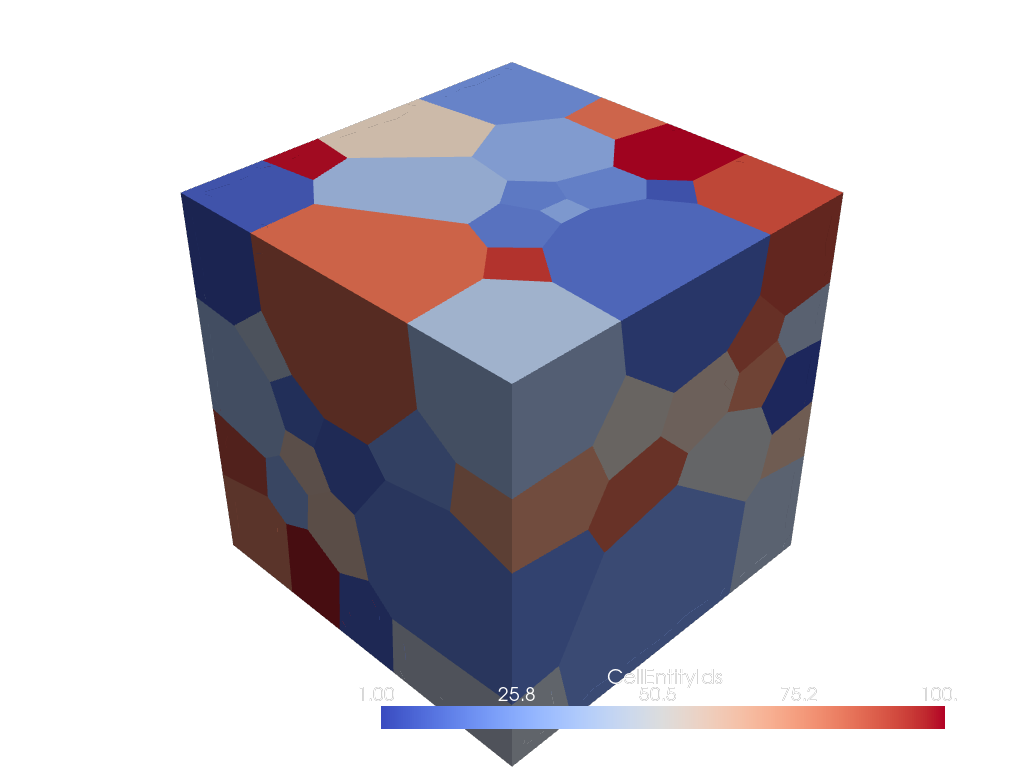
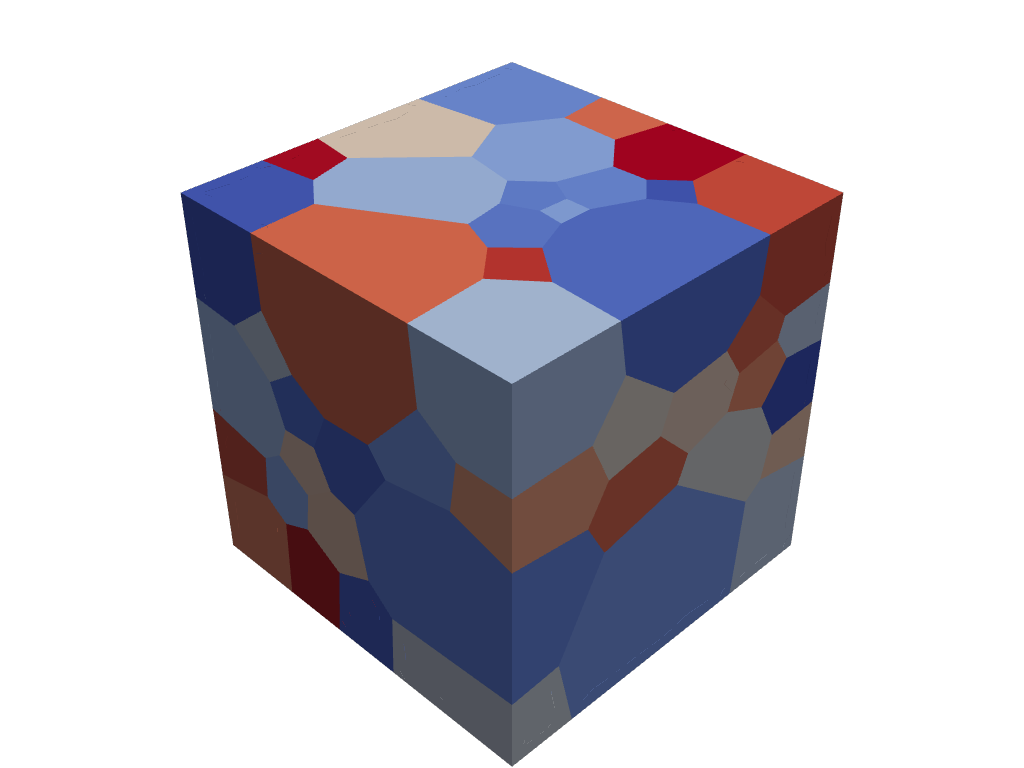
update doc screenshots

Changed region(s): [[0.375, 0.875, 0.9375, 0.9688]]

diff --git a/docs/_static/generates_images.py b/docs/_static/generates_images.py
@@ -2,17 +2,18 @@ import pyvista as pv
 import os.path
 
 
-def show_example(filename, screenshot=False, show_edges=False, screen_name=None):
+def show_example(filename, screenshot=False, color=None, show_edges=False, screen_name=None, cmap='coolwarm'):
     if not os.path.exists(filename):
         print(filename + " not found")
         return
 
     mesh = pv.read(filename)
     plotter = pv.Plotter(off_screen=screenshot)
-    plotter.add_mesh(mesh, show_edges=show_edges, cmap='coolwarm')
-    if show_edges:
+    plotter.add_mesh(mesh, show_edges=show_edges, color=color, cmap=cmap)
+    try:
         plotter.remove_scalar_bar()
-    # plotter.show_axes()
+    except:
+        pass
 
     if screenshot:
         if screen_name is None:
@@ -49,10 +50,6 @@ show_example(
     filename=example_path + "TPMS/tpms_sphere/tpms_sphere.stl",
     screenshot=True
 )
-# show_example(
-#     filename=example_path + "TPMS/tpms/tpms.stl",
-#     screenshot=False
-# )
 show_example(
     filename=example_path + "TPMS/gyroid/gyroid.stl",
     screenshot=True
@@ -81,8 +78,16 @@ show_example(
     filename=example_path + "Lattices/octetTruss/octettruss.vtk",
     screenshot=True,
     show_edges=True,
+    color='white',
+    cmap=None,
     screen_name="meshPeriodic.png"
 )
+
+
+# show_example(
+#     filename=example_path + "TPMS/tpms/tpms.stl",
+#     screenshot=False
+# )
 
 
 stl_files = [

diff --git a/README.md b/README.md
@@ -90,7 +90,7 @@ Click on the image to be redirected to the corresponding example on Microgen's d
     <img src="https://raw.githubusercontent.com/3MAH/microgen/main/docs/_static/Voronoi.png" height="250">
 </a>
 <a href="https://microgen.readthedocs.io/en/latest/examples/3d_operations.html#voronoi-gyroid">
-    <img src="https://raw.githubusercontent.com/3MAH/microgen/main/docs/_static/voronoi_gyroid.png" height="250">
+    <img src="https://raw.githubusercontent.com/3MAH/microgen/main/docs/_static/Gyroid-voro.png" height="250">
 </a>
 
 ### Mesh
